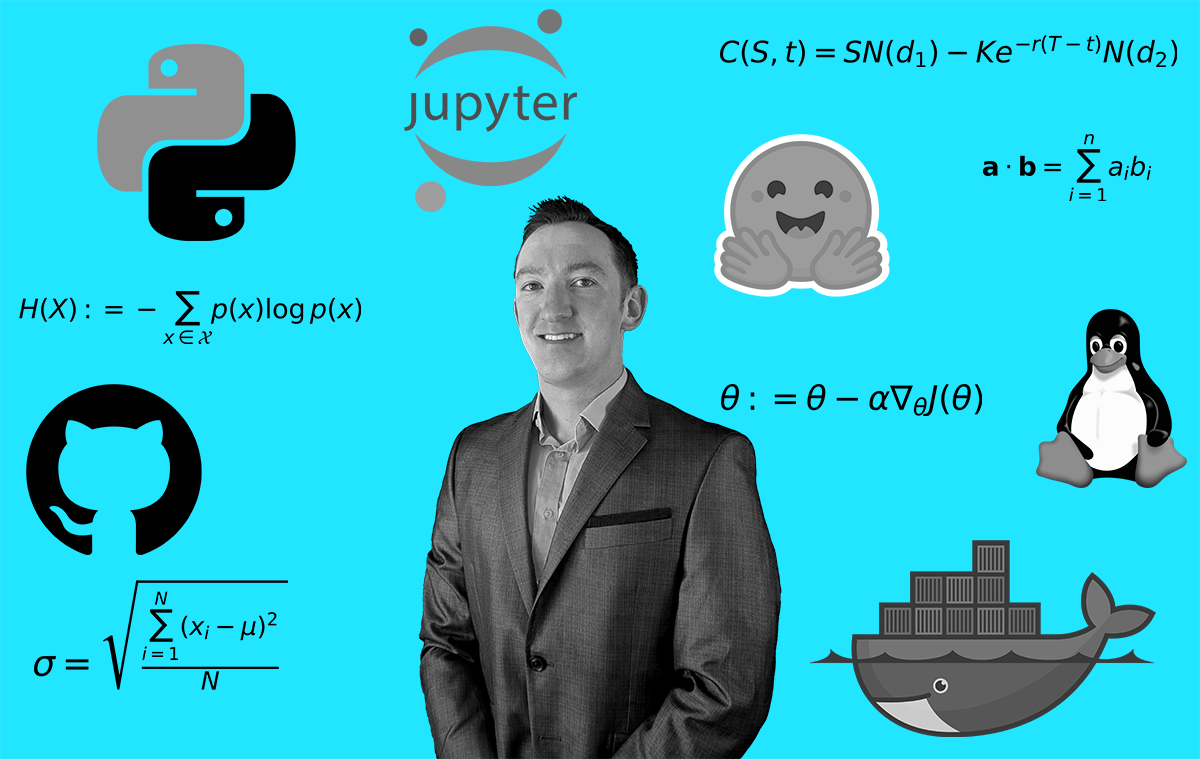
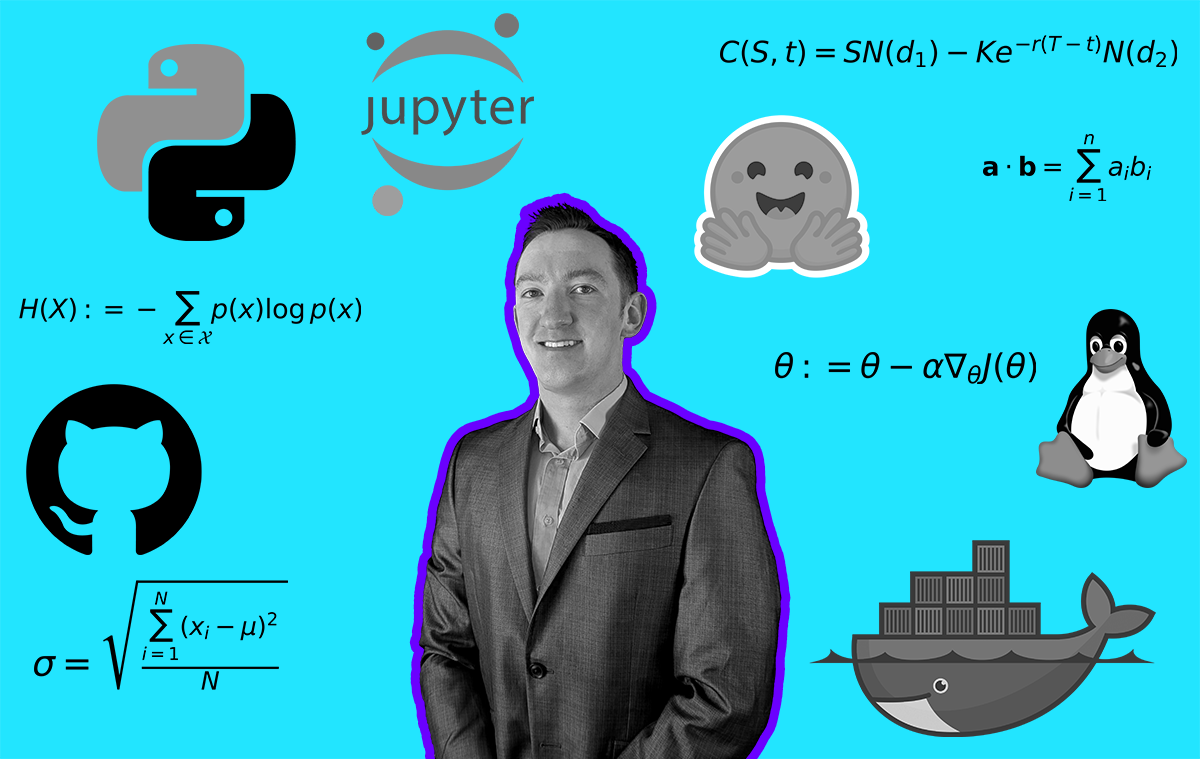
Edit image in About page

diff --git a/styles.css b/styles.css
@@ -212,8 +212,8 @@ footer {
 }
 
 .image-section .centered-image {
-    max-width: 40%; 
-    width: 30%; 
+    max-width: 70%; 
+    width: 40%; 
     height: auto; 
     display: block; 
     margin: 0 auto; 
